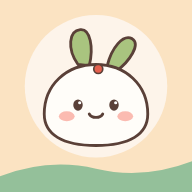
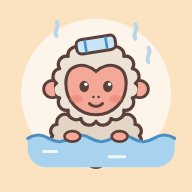
Replace mascot with Momo the snow monkey
An original snow monkey soaking in an onsen with a towel on its head,
used across the app and in the home-screen icons.

Claude-Session: https://claude.ai/code/session_01HdWn27XriNFAbdX9YLfhg5

diff --git a/index.html b/index.html
@@ -21,24 +21,30 @@
   <!-- Reusable drawings -->
   <svg width="0" height="0" style="position:absolute" aria-hidden="true">
     <defs>
-      <!-- Usa, the yuki-usagi (snow bunny) mascot -->
-      <symbol id="usa" viewBox="0 0 120 120">
-        <ellipse cx="60" cy="108" rx="40" ry="6" fill="#5A4038" opacity=".08"/>
-        <path d="M44 34c-10-14-8-30 2-31 9-1 12 16 8 32z" fill="#A9C47F" stroke="#5A4038" stroke-width="2.5" stroke-linejoin="round"/>
-        <path d="M47 30c-3-8-3-16 0-21" stroke="#7E9A55" stroke-width="2" fill="none" stroke-linecap="round"/>
-        <path d="M70 35c4-16 14-28 22-24 8 5-2 20-14 29z" fill="#A9C47F" stroke="#5A4038" stroke-width="2.5" stroke-linejoin="round"/>
-        <path d="M74 32c4-7 9-13 14-16" stroke="#7E9A55" stroke-width="2" fill="none" stroke-linecap="round"/>
-        <path d="M14 78c0-26 20-44 46-44s46 18 46 44c0 18-16 28-46 28S14 96 14 78z" fill="#FFFDF9" stroke="#5A4038" stroke-width="2.5"/>
-        <path d="M26 88c6 8 18 11 34 11" stroke="#EADFD3" stroke-width="3" fill="none" stroke-linecap="round"/>
-        <ellipse cx="44" cy="70" rx="4.2" ry="5" fill="#5A4038"/>
-        <ellipse cx="76" cy="70" rx="4.2" ry="5" fill="#5A4038"/>
-        <circle cx="45.5" cy="68" r="1.4" fill="#fff"/>
-        <circle cx="77.5" cy="68" r="1.4" fill="#fff"/>
-        <ellipse cx="34" cy="80" rx="7" ry="4.5" fill="#FBBBB1" opacity=".85"/>
-        <ellipse cx="86" cy="80" rx="7" ry="4.5" fill="#FBBBB1" opacity=".85"/>
-        <path d="M54 78c2 4 10 4 12 0" stroke="#5A4038" stroke-width="2.5" fill="none" stroke-linecap="round"/>
-        <circle cx="62" cy="38" r="4" fill="#E5604E" stroke="#5A4038" stroke-width="1.5"/>
-        <circle cx="61" cy="37" r="1" fill="#fff" opacity=".8"/>
+      <!-- Momo, the snow monkey mascot, soaking in an onsen -->
+      <symbol id="mascot" viewBox="0 0 120 120">
+        <path d="M30 20c-3-4 3-7 0-11M90 22c-3-4 3-7 0-11M100 40c-3-4 3-7 0-11" stroke="#B9D6EA" stroke-width="3" fill="none" stroke-linecap="round"/>
+        <path d="M27.0 96.0 A5.1 5.1 0 0 1 30.3 87.3 A6.3 6.3 0 0 1 39.4 80.4 A7.6 7.6 0 0 1 52.7 76.5 A8.1 8.1 0 0 1 67.3 76.5 A7.6 7.6 0 0 1 80.6 80.4 A6.3 6.3 0 0 1 89.7 87.3 A5.1 5.1 0 0 1 93.0 96.0 A5.1 5.1 0 0 1 89.7 104.7 A6.3 6.3 0 0 1 80.6 111.6 A7.6 7.6 0 0 1 67.3 115.5 A8.1 8.1 0 0 1 52.7 115.5 A7.6 7.6 0 0 1 39.4 111.6 A6.3 6.3 0 0 1 30.3 104.7 A5.1 5.1 0 0 1 27.0 96.0Z" fill="#E2D5C6" stroke="#5A4038" stroke-width="2.5" stroke-linejoin="round"/>
+        <path d="M60.0 27.0 A6.3 6.3 0 0 1 71.5 29.2 A6.3 6.3 0 0 1 81.2 35.5 A6.2 6.2 0 0 1 87.7 44.9 A6.1 6.1 0 0 1 90.0 56.0 A6.1 6.1 0 0 1 87.7 67.1 A6.2 6.2 0 0 1 81.2 76.5 A6.3 6.3 0 0 1 71.5 82.8 A6.3 6.3 0 0 1 60.0 85.0 A6.3 6.3 0 0 1 48.5 82.8 A6.3 6.3 0 0 1 38.8 76.5 A6.2 6.2 0 0 1 32.3 67.1 A6.1 6.1 0 0 1 30.0 56.0 A6.1 6.1 0 0 1 32.3 44.9 A6.2 6.2 0 0 1 38.8 35.5 A6.3 6.3 0 0 1 48.5 29.2 A6.3 6.3 0 0 1 60.0 27.0Z" fill="#ECE2D6" stroke="#5A4038" stroke-width="2.5" stroke-linejoin="round"/>
+        <path d="M27.5 54a6.5 6.5 0 1 0 1.5 12.5" fill="#F4A897" stroke="#5A4038" stroke-width="2.2" stroke-linecap="round"/>
+        <path d="M92.5 54a6.5 6.5 0 1 1-1.5 12.5" fill="#F4A897" stroke="#5A4038" stroke-width="2.2" stroke-linecap="round"/>
+        <path d="M60 47C52 39 37 41 37 56c0 14 10 24 23 24s23-10 23-24c0-15-15-17-23-9z" fill="#F4A897" stroke="#5A4038" stroke-width="2.3"/>
+        <ellipse cx="45" cy="68" rx="5" ry="3" fill="#E8776A" opacity=".45"/>
+        <ellipse cx="75" cy="68" rx="5" ry="3" fill="#E8776A" opacity=".45"/>
+        <ellipse cx="51" cy="58.5" rx="3.6" ry="4.4" fill="#5A4038"/>
+        <ellipse cx="69" cy="58.5" rx="3.6" ry="4.4" fill="#5A4038"/>
+        <circle cx="52.3" cy="56.8" r="1.3" fill="#fff"/><circle cx="70.3" cy="56.8" r="1.3" fill="#fff"/>
+        <circle cx="58" cy="66.5" r="1" fill="#5A4038"/><circle cx="62" cy="66.5" r="1" fill="#5A4038"/>
+        <path d="M55 71.5q5 4.5 10 0" stroke="#5A4038" stroke-width="2.3" fill="none" stroke-linecap="round"/>
+        <g transform="rotate(-9 60 27)">
+          <rect x="45" y="21" width="30" height="11" rx="4" fill="#C9E6F9" stroke="#5A4038" stroke-width="2.3"/>
+          <path d="M52 21.5v10M68 21.5v10" stroke="#4A90C2" stroke-width="2"/>
+        </g>
+        <path d="M8 98q8-5 16 0t16 0 16 0 16 0 16 0 16 0 16 0v8a14 14 0 0 1-14 14H22a14 14 0 0 1-14-14z" fill="#A8D3EE"/>
+        <path d="M8 98q8-5 16 0t16 0 16 0 16 0 16 0 16 0 16 0" stroke="#4A90C2" stroke-width="2.3" fill="none" stroke-linecap="round"/>
+        <ellipse cx="42" cy="96.5" rx="6" ry="4" fill="#F4A897" stroke="#5A4038" stroke-width="2"/>
+        <ellipse cx="78" cy="96.5" rx="6" ry="4" fill="#F4A897" stroke="#5A4038" stroke-width="2"/>
+        <path d="M20 108h10M70 112h12" stroke="#fff" stroke-width="2.2" stroke-linecap="round" opacity=".8"/>
       </symbol>
       <!-- Mountain + hills scene -->
       <symbol id="scene" viewBox="0 0 400 160" preserveAspectRatio="xMidYMax slice">

diff --git a/js/app.js b/js/app.js
@@ -83,7 +83,7 @@
     copy: '<svg viewBox="0 0 24 24"><rect x="8.5" y="8.5" width="11" height="11" rx="2.5"/><path d="M15.5 8.5V6a1.5 1.5 0 0 0-1.5-1.5H6A1.5 1.5 0 0 0 4.5 6v8A1.5 1.5 0 0 0 6 15.5h2.5"/></svg>',
     sparkle: '<svg viewBox="0 0 24 24"><path d="M12 3.5c.6 4.4 2.5 6.6 7 7.5-4.5.9-6.4 3.1-7 7.5-.6-4.4-2.5-6.6-7-7.5 4.5-.9 6.4-3.1 7-7.5z"/></svg>',
   };
-  const usa = (cls = "") => `<svg class="usa ${cls}" viewBox="0 0 120 120" aria-hidden="true"><use href="#usa"/></svg>`;
+  const usa = (cls = "") => `<svg class="usa ${cls}" viewBox="0 0 120 120" aria-hidden="true"><use href="#mascot"/></svg>`;
 
   /* ================= toast ================= */
   let toastTimer;
@@ -329,7 +329,7 @@
 
       <div class="divider"><span>Training ground</span></div>
       <section class="card spin-card">
-        <div class="spin-art">${usa("usa-md tilt")}</div>
+        <div class="spin-art">${usa("usa-md")}</div>
         <div>
           <h3>Feeling spontaneous?</h3>
           <p class="muted">${CITIES.reduce((n, c) => n + c.acts.length, 0)} ideas across ${CITIES.length} places</p>
@@ -694,7 +694,7 @@ Check in: Hotel Gracery (3 nights)</pre>
     const pool = filteredActs(city);
     $("#view").innerHTML = `
       <header class="page-head">
-        <div><h1>Explore</h1><p class="muted">Can't decide? Let Usa pick for you!</p></div>
+        <div><h1>Explore</h1><p class="muted">Can't decide? Let Momo pick for you!</p></div>
       </header>
       <div class="city-strip" id="city-strip">
         ${CITIES.map((c) => `<button class="city-chip ${c.id === city.id ? "active" : ""}" data-city="${c.id}"><span class="ce">${c.emoji}</span><span>${esc(c.name)}</span></button>`).join("")}

diff --git a/sw.js b/sw.js
@@ -1,5 +1,5 @@
 /* Offline support: the app keeps working without signal in Japan. */
-const CACHE = "tabi-v2";
+const CACHE = "tabi-v3";
 const SHELL = [
   "./", "./index.html", "./css/styles.css",
   "./js/app.js", "./js/activities.js", "./js/importer.js",
